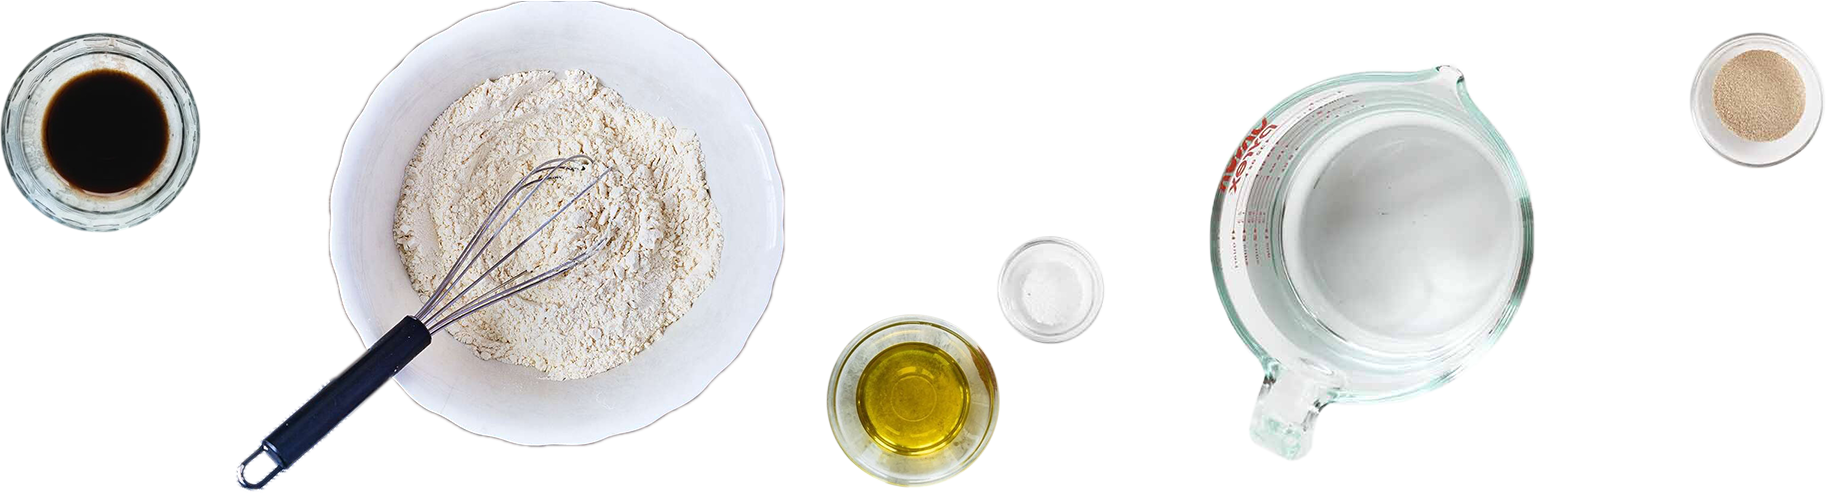
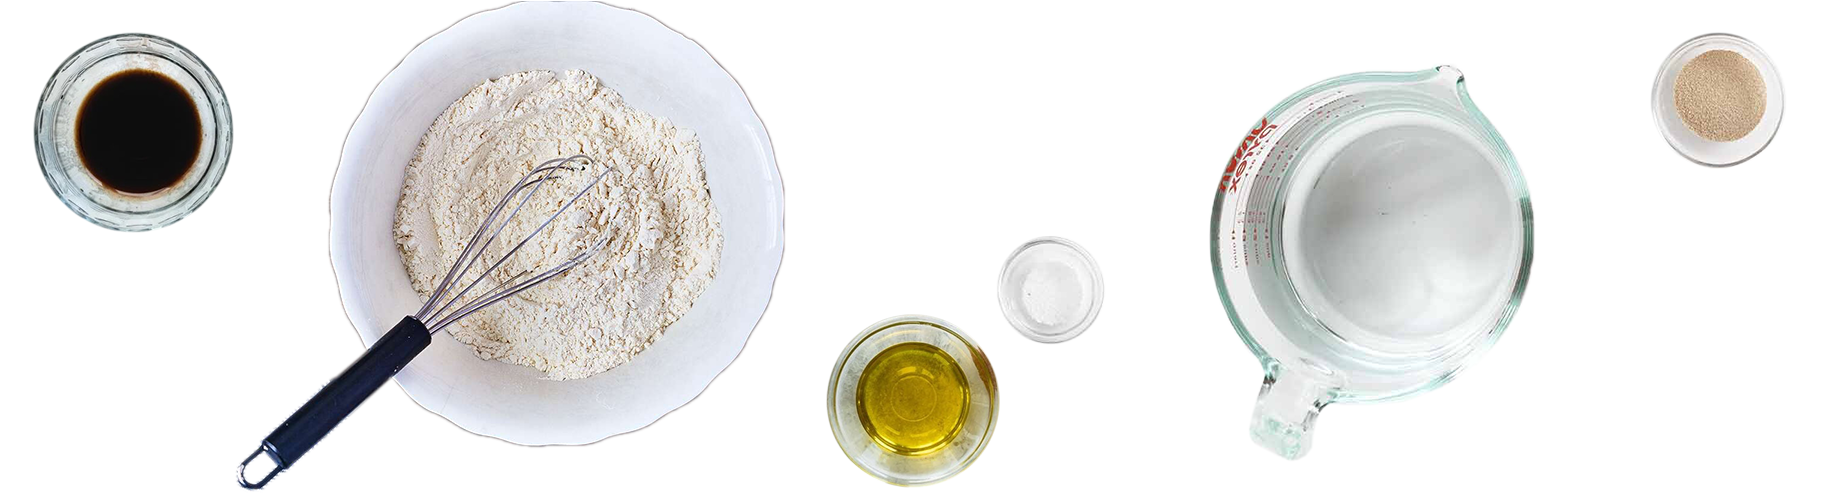
Changes MiseEnPlace, TabNav, verbesserung Hintergrundbilder & Spacing

Changed region(s): [[0.0, 0.0609, 0.1249, 0.4868], [0.9053, 0.0609, 0.9989, 0.3651]]

diff --git a/css/styles.css b/css/styles.css
@@ -73,7 +73,7 @@ body {
   font-size: var(--fs-body);
   line-height: 1.2;
   -webkit-font-smoothing: antialiased;
-  overflow-x: hidden;
+  overflow-x: clip;
 }
 img { display: block; max-width: 100%; height: auto; }
 a { color: inherit; }
@@ -90,7 +90,8 @@ button, input, textarea { font: inherit; color: inherit; }
   position: relative;
   max-width: 1728px;
   margin: 0 auto;
-  overflow: hidden;
+  overflow-x: clip;
+  overflow-y: visible;
   display: flex;
   flex-direction: column;
   gap: var(--section-gap);
@@ -183,9 +184,14 @@ position: relative; z-index: 1;
 .weg { position: relative; }
 
 .tabs {
-  position: relative; z-index: 1;
+  --tabs-padding-top: max(calc(124 * var(--u)), 40px);
+  --logo-top: max(calc(30 * var(--u)), 12px);
+  --logo-size: max(calc(81 * var(--u)), 52px);
+  position: sticky; z-index: 20;
+  top: calc(var(--logo-top) + var(--logo-size) - var(--tabs-padding-top));
   margin: 0 var(--gutter);
-  padding: max(calc(124 * var(--u)), 40px) 0 0;
+  padding: var(--tabs-padding-top) 0 0;
+  background: transparent;
 }
 .tabs__list {
   display: flex; justify-content: space-between; gap: 15px;
@@ -207,32 +213,31 @@ position: relative; z-index: 1;
 
 /* Mise en Place */
 .mise {
-  height: calc(812 * var(--u));
-  margin-top: max(calc(32 * var(--u)), 16px);
-  padding-top: calc(136 * var(--u));
+  position:relative;
+  margin-top: max(calc(32 * var(--u)), 8px);
+  margin-bottom: -1px;
 }
 .mise__bg {
-  position: absolute; left: 0; right: 0; top: calc(22 * var(--u));
-  height: calc(790 * var(--u));
-  background: url("../assets/bg_mise.svg") center / 100% 100% no-repeat;
+  position: absolute; inset: 0;
+  background: url("../assets/bg_mise.webp") center / 100% 100% no-repeat;
 }
-.mise__title { position: relative; color: var(--c-blue); text-align: center; }
+.mise__title { color: var(--c-black); text-align: left; }
 .mise__img {
-  position: absolute; z-index: 2;
-  left: calc(36 * var(--u)); top: calc(-148 * var(--u));
-  width: calc(1656 * var(--u)); height: calc(703 * var(--u));
-  object-fit: contain;
+  position: relative; z-index: 2;
+  width: 100%; height: auto;
 }
 .mise__body {
   position: relative; z-index: 3;
   width: calc(826 * var(--u));
   margin: calc(64 * var(--u)) auto 0;
+  padding-bottom: calc(384 * var(--u));
 }
 
 /* Kneten */
-.kneten { height: calc(865 * var(--u)); }
-.kneten__img { width: 100%; height: 100%; object-fit: cover; }
-.kneten__bubble { position: absolute; left: calc(1260 * var(--u)); top: 0; }
+.kneten { height: auto; }
+.kneten__img { width: 100%; height: auto; }
+.kneten__bubble { position: absolute; left: calc(1260 * var(--u)); top: calc(200  * var(--u)); }
+
 
 /* Sprechblase */
 .bubble {
@@ -252,7 +257,7 @@ position: relative; z-index: 1;
 }
 
 /* Aufgehen */
-.aufgehen { padding: calc(126 * var(--u)) var(--gutter); }
+.aufgehen { padding: calc(256 * var(--u)) var(--gutter); }
 .aufgehen__title {
   display: flex; flex-direction: column; gap: calc(200 * var(--u));
   color: var(--c-yellow); text-align: center;
@@ -266,23 +271,28 @@ position: relative; z-index: 1;
 
 /* Backen & Verpacken */
 .backen {
-  min-height: calc(1494 * var(--u));
-  padding-top: calc(128 * var(--u));
-  padding-bottom: calc(72 * var(--u));
+  display: flex; flex-direction: column;
+  gap: calc(124 * var(--u));
+  padding-top: calc(256 * var(--u));
+  padding-bottom: calc(256 * var(--u));
 }
 .backen__bg {
-  position: absolute; inset: 0;
-  background: url("../assets/bg_backen.svg") center / 100% 100% no-repeat;
+  position: absolute; z-index: 0; inset: 0;
+  background: url("../assets/bg_backen.webp") center / 100% 100% no-repeat;
+}
+.backen > .title-unit {
+  position: relative; z-index: 1; left: auto; top: auto; width: 100%;
 }
 .backen__img {
-  position: absolute; z-index: 1;
-  left: calc(30 * var(--u)); top: calc(471 * var(--u));
-  width: calc(1729 * var(--u)); max-width: none;
+  position: relative; z-index: 1;
+  left: auto; top: auto;
+  width: calc(1729 * var(--u)); max-width: none; height: auto;
+  margin-left: calc(30 * var(--u));
 }
 .backen__body {
-  position: absolute; z-index: 2;
-  left: calc(480 * var(--u)); top: calc(853 * var(--u));
+  position: relative; z-index: 2;
   width: calc(826 * var(--u));
+  margin: 0 0 0 calc(480 * var(--u));
 }
 
 /* Mampf */
@@ -492,21 +502,19 @@ position: relative; z-index: 1;
   .hero__star { left: -10%; width: 120%; top: 150px; }
   .hero__baguette { left: 12%; width: 76%; top: 130px; }
 
-  .tabs { padding-top: 24px; }
+  .tabs { --tabs-padding-top: 24px; }
   .tabs__list { justify-content: flex-start; gap: 24px; }
 
   /* Collagen werden zu gestapelten Blöcken */
   .mise { height: auto; margin-top: 0; padding: 0 0 56px; }
-  .mise__bg { top: 0; bottom: 0; height: auto; background: var(--c-lavender); }
+  .mise__bg { background-color: var(--c-lavender); }
   .mise { padding-top: 28px; }
-  .mise__img { position: relative; z-index: 2; top: auto; left: 0; width: 100%; height: auto; margin-bottom: -4vw; }
+  .mise__img { margin-bottom: 0; }
   .mise__body, .backen__body {
     position: relative; left: auto; top: auto;
     width: auto; margin: 32px var(--gutter) 0;
   }
 
-  .kneten { height: auto; }
-  .kneten__img { aspect-ratio: 1728 / 865; }
   .kneten__bubble { --bw: 120px; left: auto; right: 2%; top: -40px; }
 
   .aufgehen { padding-block: 40px; }
@@ -514,8 +522,10 @@ position: relative; z-index: 1;
   .aufgehen__img { top: calc(40px + 11vw); left: 3%; width: 94%; }
   .aufgehen__bubble { --bw: 104px; left: 1%; top: 8px; }
 
-  .backen { min-height: 0; padding: 64px 0 80px; }
-  .backen__img { position: relative; left: 0; top: auto; width: 100%; margin-top: 16px; }
+  .backen { padding: calc(256 * var(--u)) 0; }
+  .backen > .title-unit { position: relative; top: auto; left: auto; }
+  .backen__img { left: 0; top: auto; width: 100%; margin-left: 0; }
+  .backen__body { width: auto; margin: 0 var(--gutter); }
 
   .mampf { height: auto; aspect-ratio: 1728 / 907; }
 

diff --git a/index.html b/index.html
@@ -39,7 +39,6 @@
         <li><a class="tabs__link is-active" href="#mise">Mise en Place</a></li>
         <li><a class="tabs__link" href="#kneten">Kneten</a></li>
         <li><a class="tabs__link" href="#aufgehen">Teig aufgehen lassen</a></li>
-        <li><a class="tabs__link" href="#formen">Formen</a></li>
         <li><a class="tabs__link" href="#backen">Backen &amp; Verpacken</a></li>
         <li><a class="tabs__link" href="#geniessen">Geniessen!</a></li>
       </ul>
@@ -49,18 +48,16 @@
     <!-- Mise en Place -->
     <article class="step mise" id="mise">
       <div class="mise__bg" aria-hidden="true"></div>
-      <!---<h3 class="display mise__title">Mise en Place</h3>-->
-      <img src="assets/mise-en-place.webp" alt="Zutaten: Mehl mit Schwingbesen, Balsamico, Öl, Hefe, Salz und Wasser" width="1826" height="690" aria-hidden="true">
-      <!--<img class="mise__img" src="assets/mise-en-place.webp" alt="Zutaten: Mehl mit Schwingbesen, Balsamico, Öl, Hefe, Salz und Wasser" width="1826" height="690">-->
+      <img class="mise__img" src="assets/pandedodo-mise-en-place_02.png" alt="Zutaten für die Mise en Place: Kaffee, Mehl, Balsamico, Öl, Salz, Wasser und Hefe" width="1826" height="493">
       <div class="body-unit mise__body">
-        <p class="lead">mit Maisstärke, Balsomico, Salz, Öl, Hefe und Wasser</p>
+        <p class="lead mise__title">Mise en Place mit Maisstärke, Balsomico, Salz, Öl, Hefe und Wasser</p>
         <p>Hier trifft millimetergenaues abwägen auf fliegenden Mehlstaub und den ersten wachen Schluck Kaffee des Tages.</p>
       </div>
     </article>
 
     <!-- Kneten -->
     <article class="step kneten" id="kneten">
-      <img class="kneten__img" src="assets/teig-kneten.webp" alt="Hände ziehen glutenfreien Teig auseinander" width="1728" height="865">
+      <img class="kneten__img" src="assets/teig-kneten.webp" alt="Hände ziehen glutenfreien Teig auseinander" width="1728" height="1334">
       <div class="bubble bubble--yellow kneten__bubble">
         <span class="bubble__text">Teig<br>Kneten</span>
       </div>
